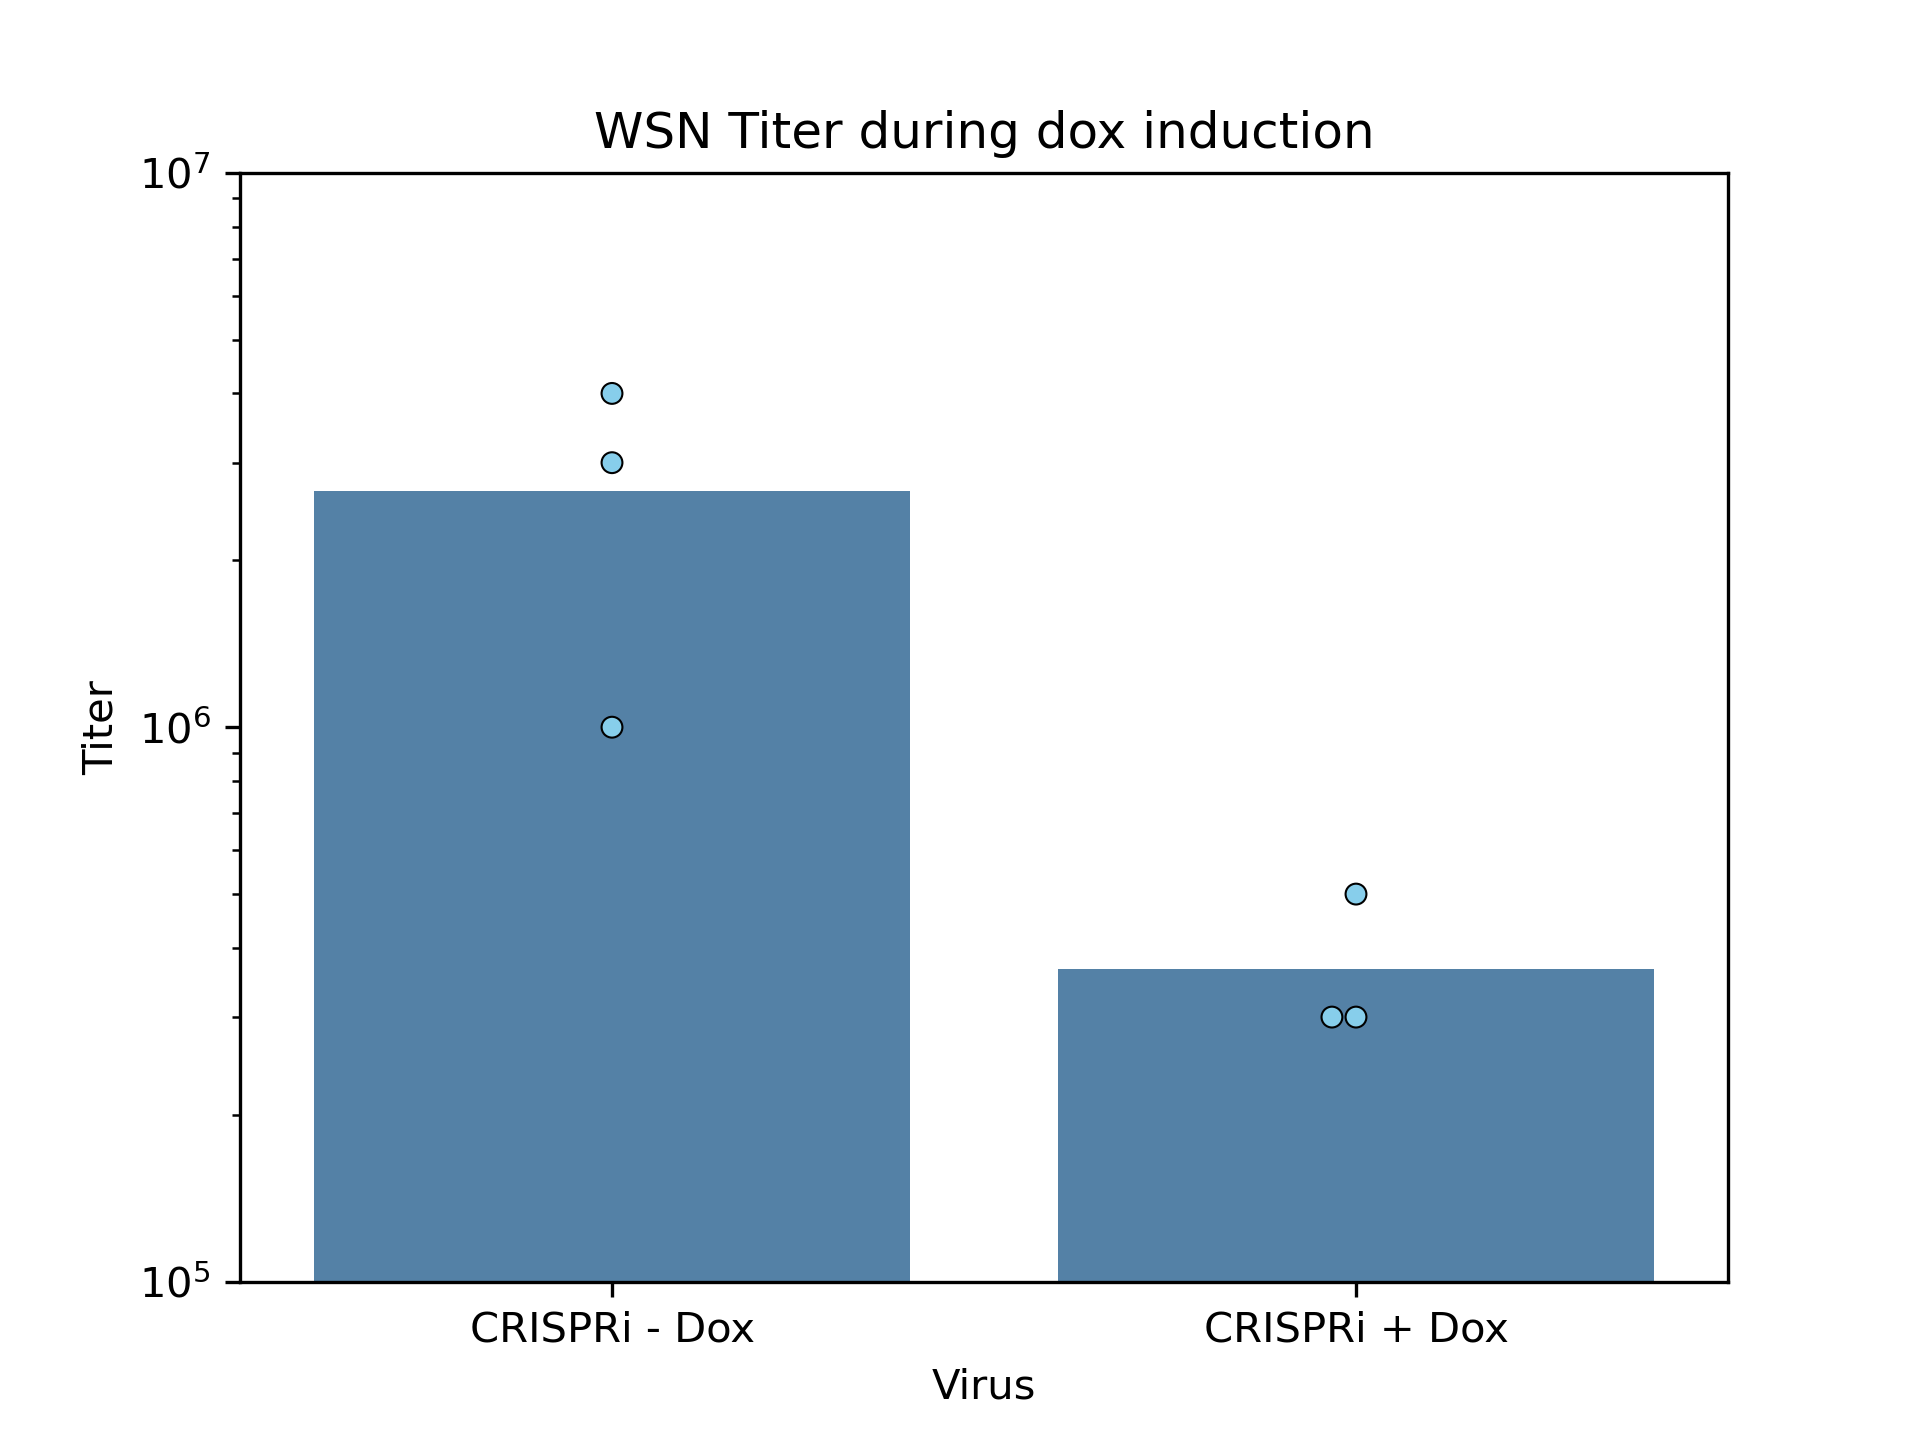
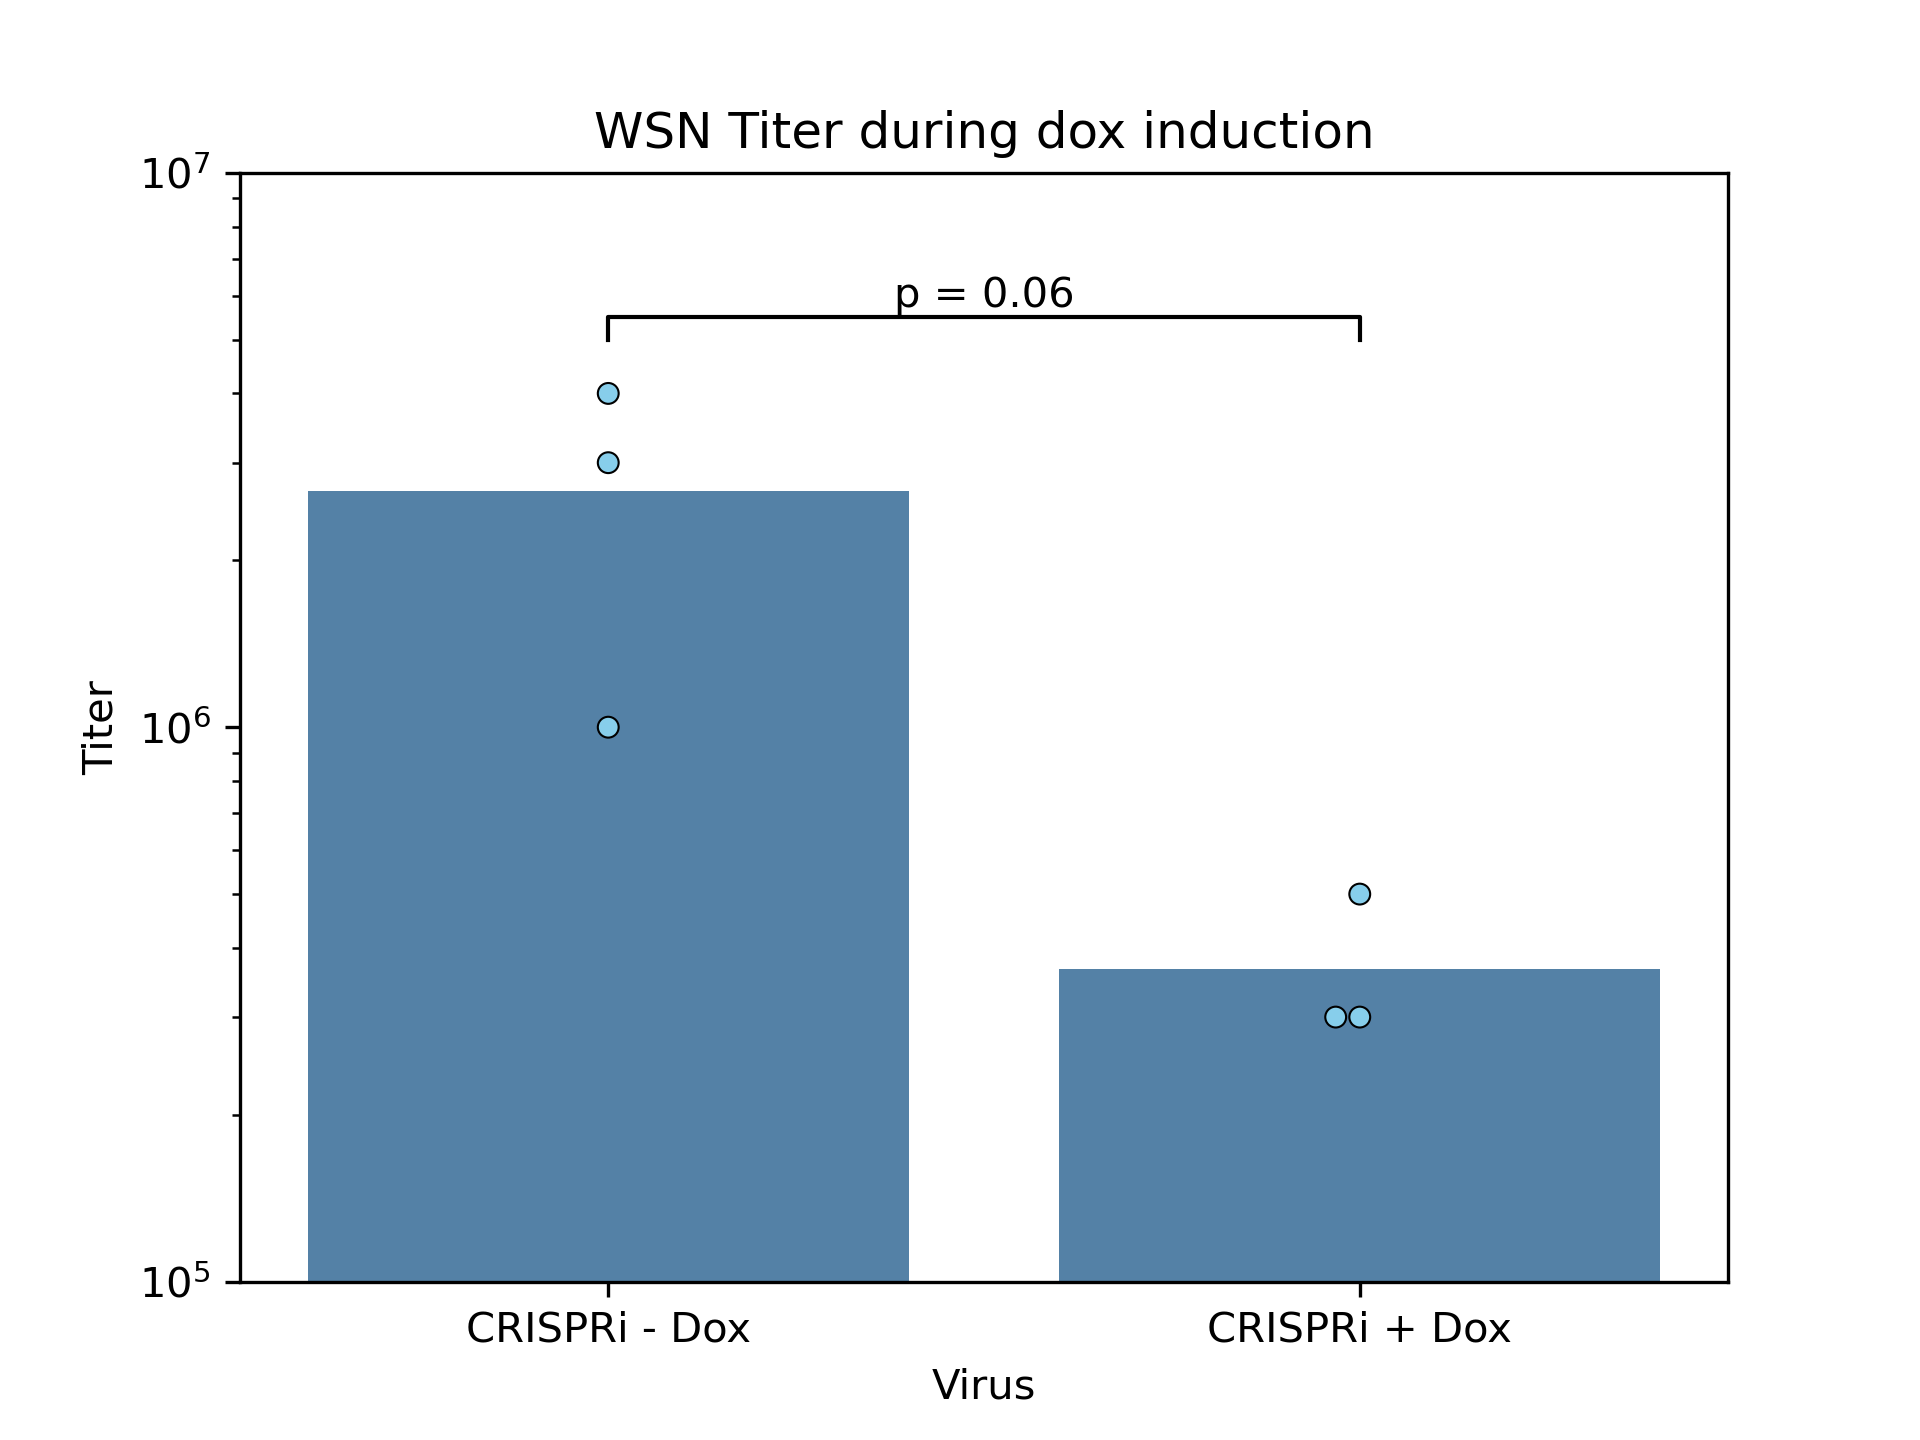
Add t-test calculation and annotation for TN042.2.png

diff --git a/TN042/TN042.2.py b/TN042/TN042.2.py
@@ -3,6 +3,7 @@
 import pandas as pd
 import seaborn as sns
 import matplotlib.pyplot as plt
+import pingouin as pg
 
 data = pd.read_excel("TN042.2.xlsx")
 
@@ -23,5 +24,18 @@ g = sns.barplot(
 plt.yscale("log")
 plt.ylim(1e5, 1e7)
 plt.title("WSN Titer during dox induction")
+
+# Calculate the p-value
+ttest = pg.ttest(
+    data["Titer"][data["Virus"] == "CRISPRi - Dox"],
+    data["Titer"][data["Virus"] == "CRISPRi + Dox"],
+    paired=False,
+    alternative="two-sided",
+)
+ttest.to_excel("TN042.2_ttest.xlsx")
+def annotate_stats(pvalue, y, h):
+    plt.plot([0, 0, 1, 1], [y, y + h, y + h, y], lw=1, c="k")
+    plt.text(0.5, y + 2 * h, f"p = {pvalue:.2}", ha="center", va="center")
+annotate_stats(ttest["p-val"].values[0], 5e6, 5e5)
 
 plt.savefig("TN042.2.png", dpi=300)
